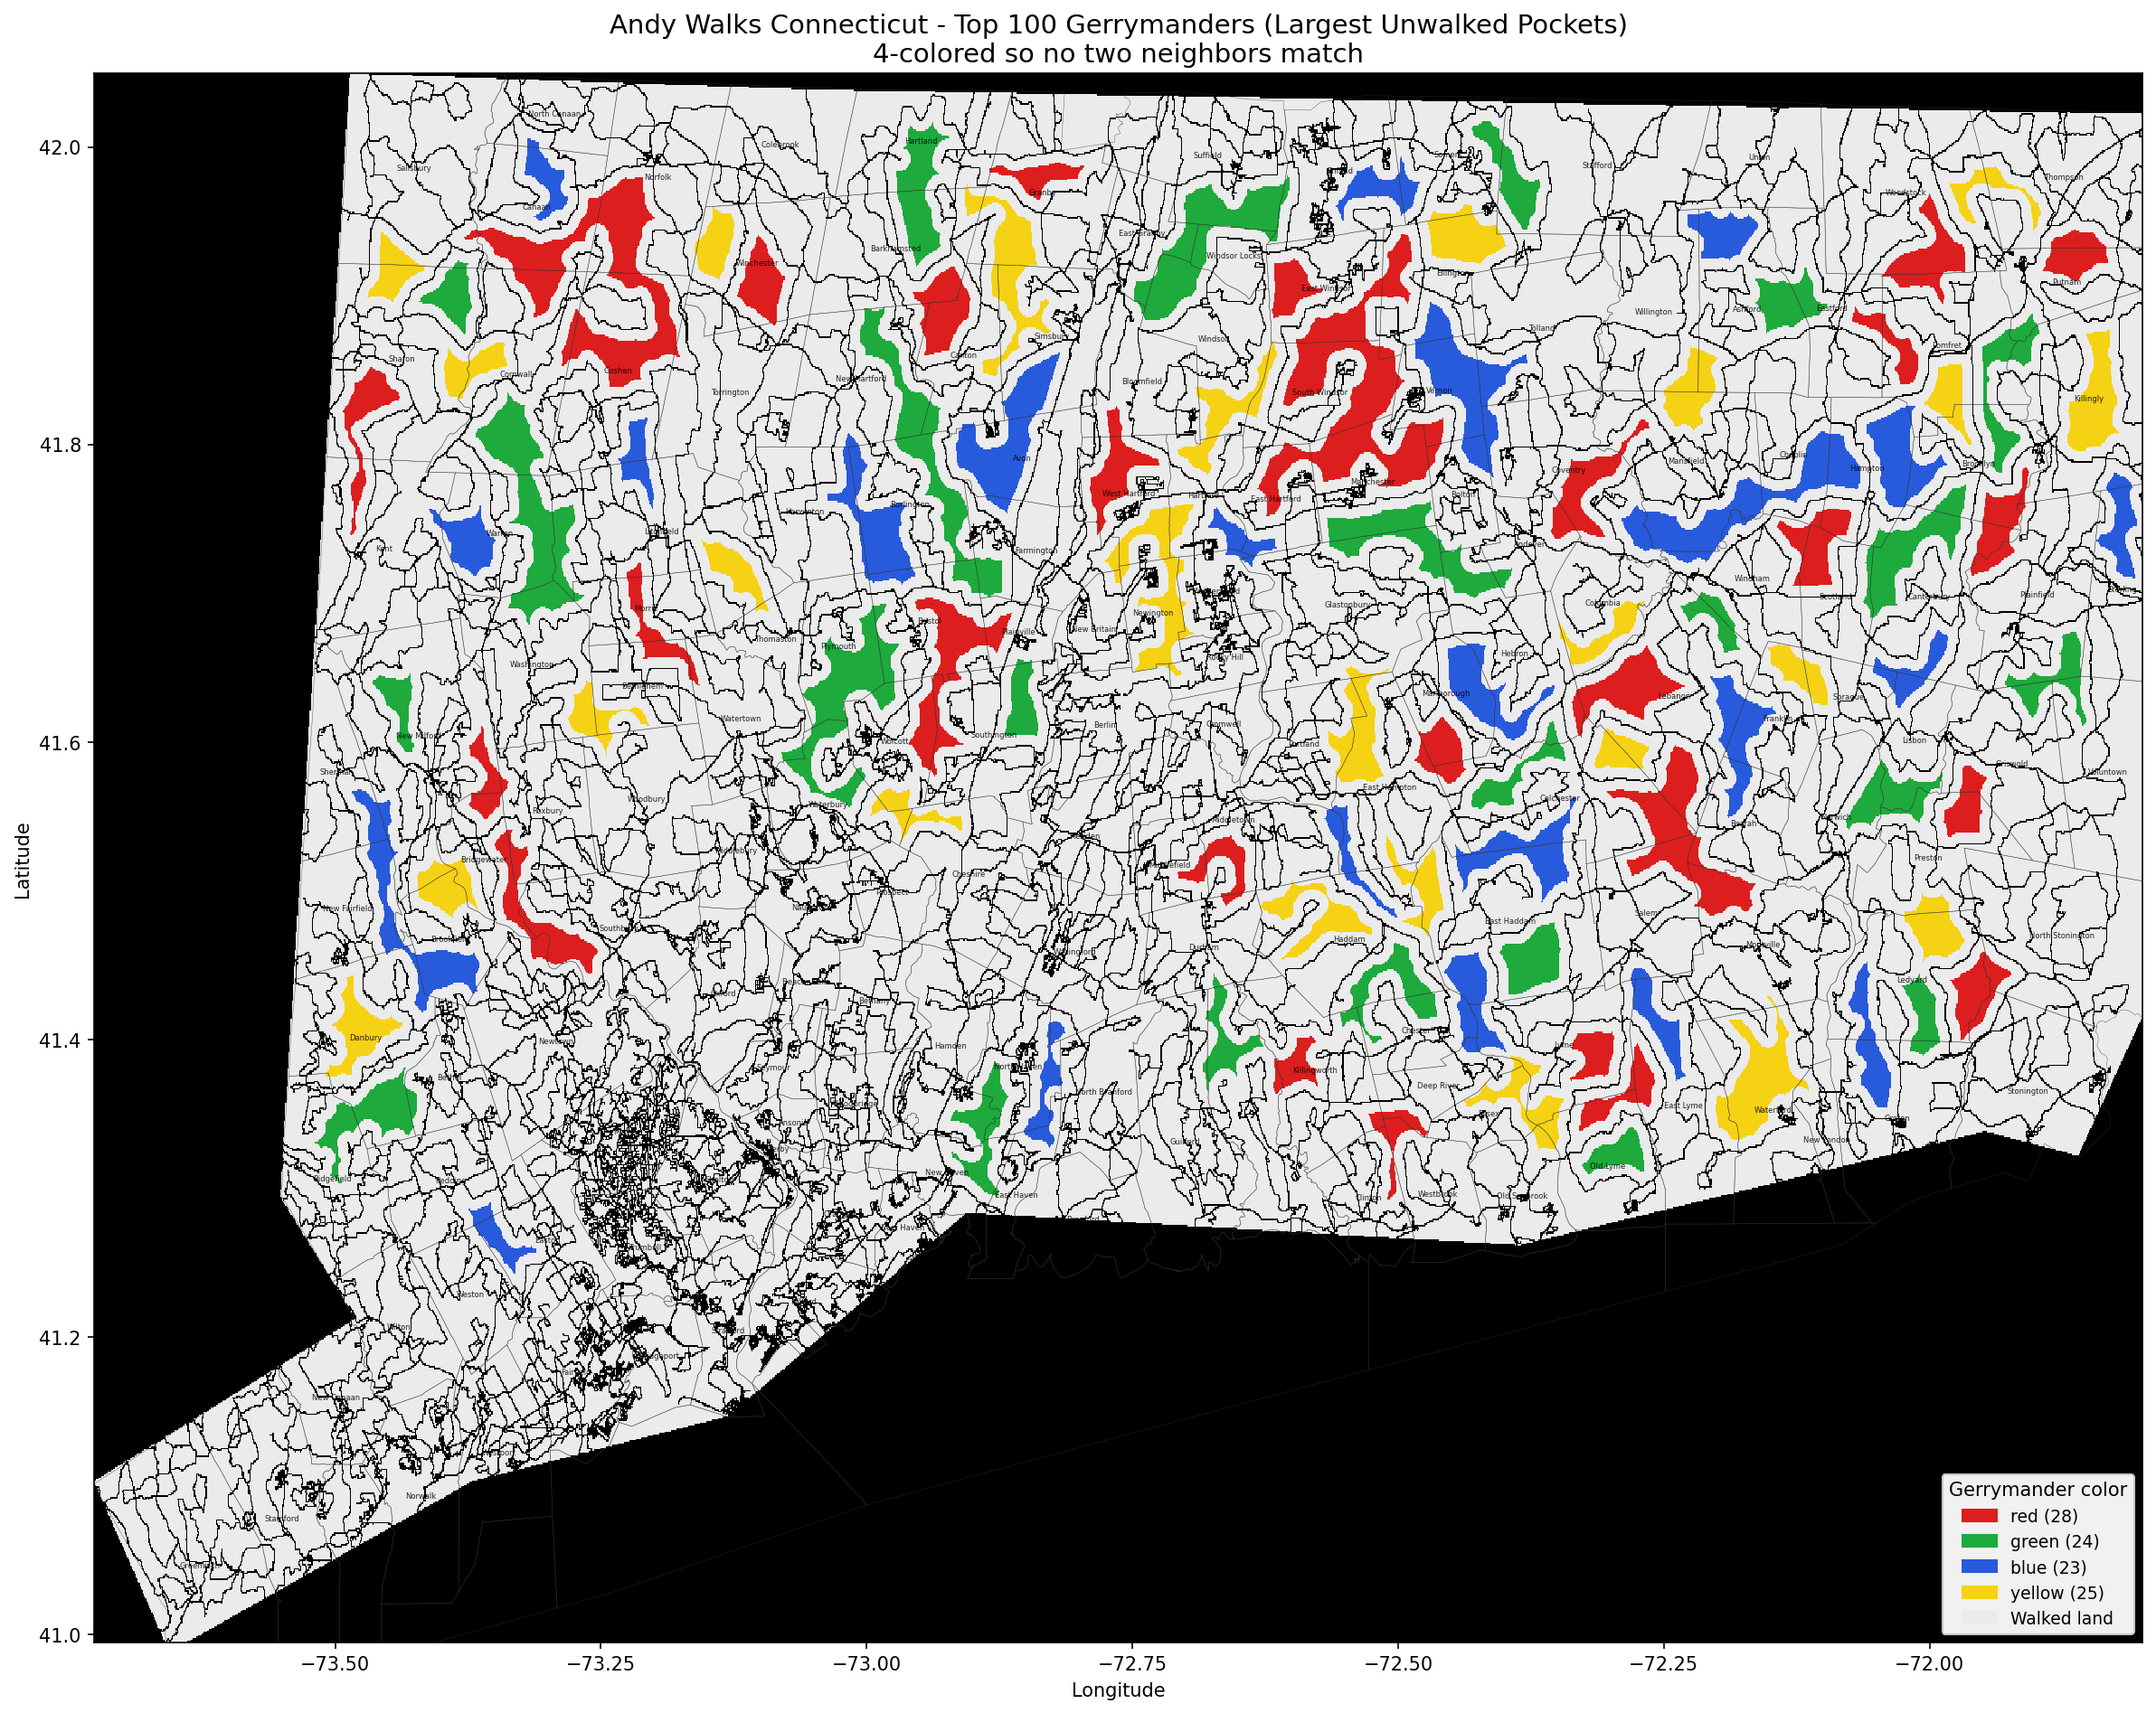
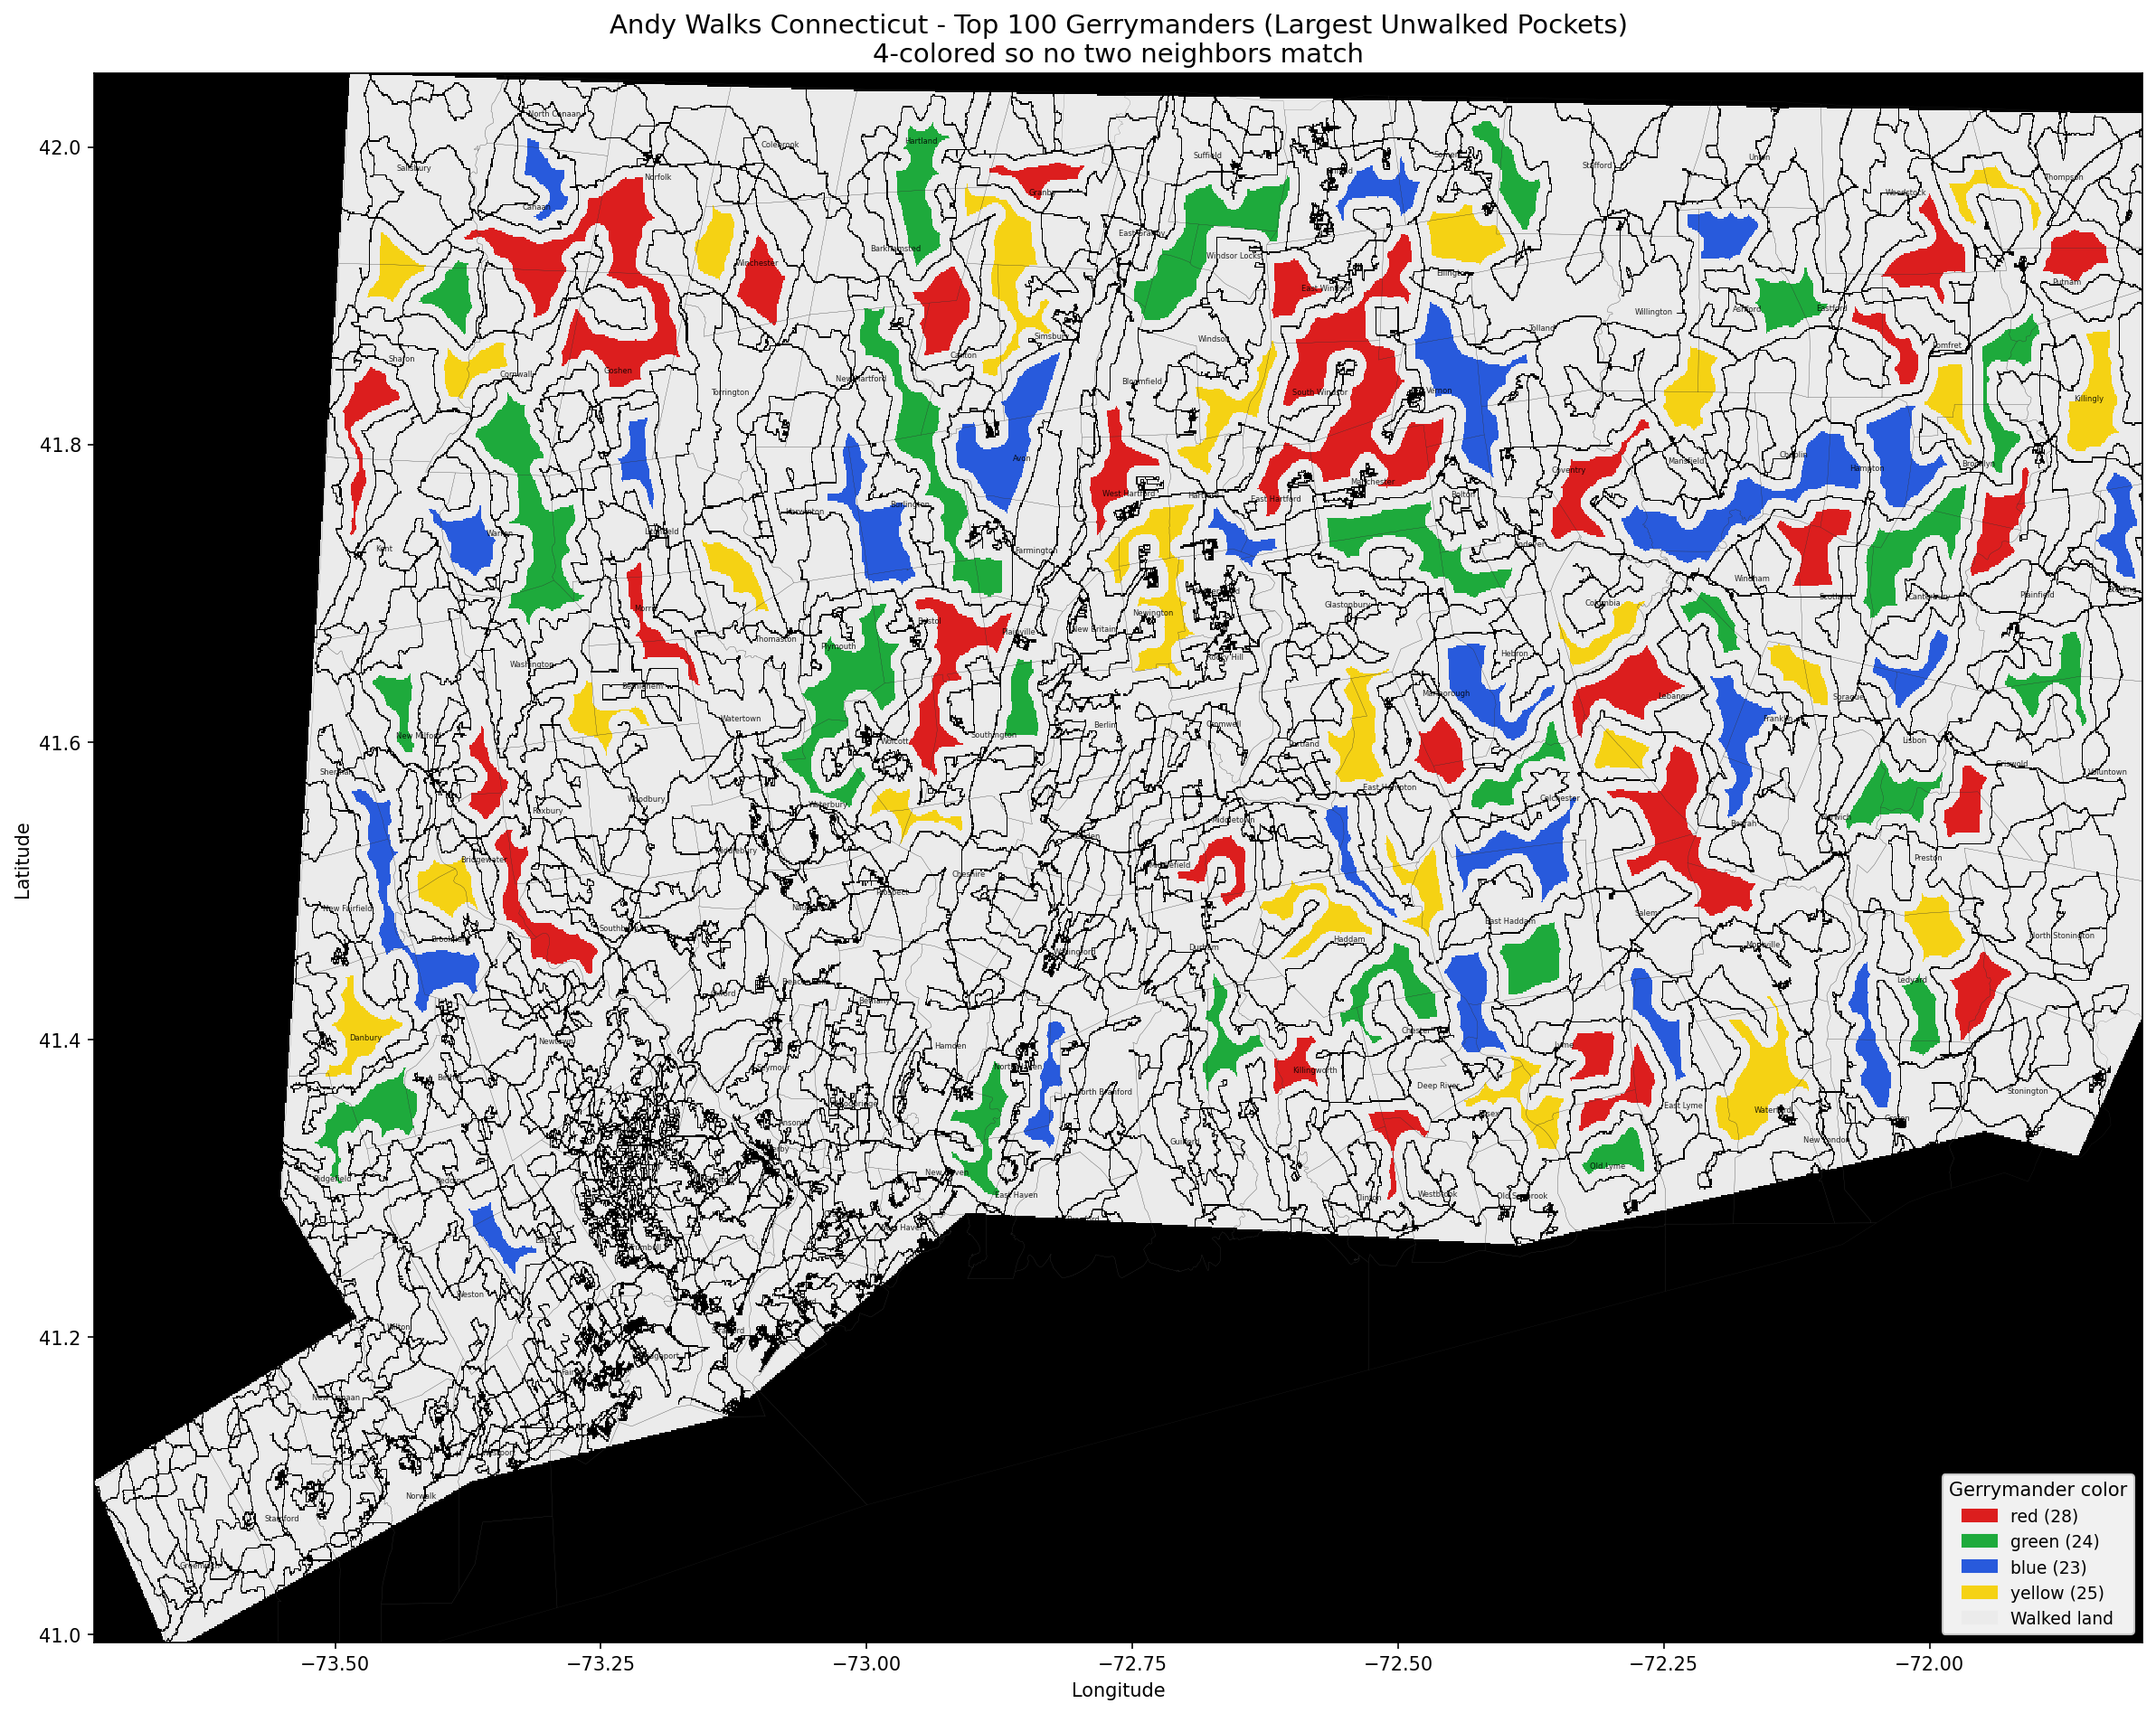
Halve gerrymander map boundary line width again
Town boundary lines were thick enough to visually cut across a colored
pocket, making one gerrymander read as two of the same color. Halve the line
width again to reduce the artifact: full map 0.25 -> 0.125, zoom 0.3 -> 0.15.

Region detection, ranking, and 4-coloring are unchanged.

Regenerated: Gerrymander_Map.png, Gerrymander_Top20_Zoom.png

Files:
M  src/plotmap/Gerrymander_Map.png
M  src/plotmap/Gerrymander_Top20_Zoom.png
M  src/plotmap/gerrymander_map.py
M  src/plotmap/gerrymander_top20_zoom.py

diff --git a/src/plotmap/gerrymander_top20_zoom.py b/src/plotmap/gerrymander_top20_zoom.py
@@ -70,7 +70,7 @@ def main():
         pad = max(0.008, span * 0.4)
 
         for lons, lats in town_lines:
-            ax.plot(lons, lats, color="#333333", linewidth=0.3, alpha=0.75)
+            ax.plot(lons, lats, color="#333333", linewidth=0.15, alpha=0.75)
 
         x_lo, x_hi = r_lon_min - pad, r_lon_max + pad
         y_lo, y_hi = r_lat_min - pad, r_lat_max + pad

diff --git a/src/plotmap/gerrymander_map.py b/src/plotmap/gerrymander_map.py
@@ -279,7 +279,7 @@ def main():
 
     # Overlay town boundaries.
     for lons, lats in load_town_lines():
-        ax.plot(lons, lats, color="#333333", linewidth=0.25, alpha=0.7)
+        ax.plot(lons, lats, color="#333333", linewidth=0.125, alpha=0.7)
 
     # Label each town at its centroid.
     for name, lon_c, lat_c in load_town_labels():
